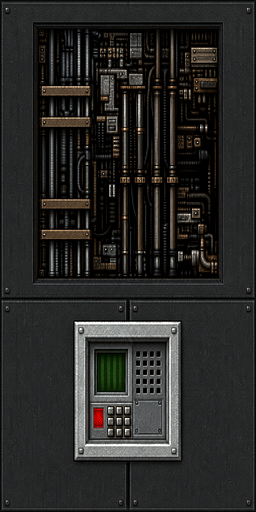
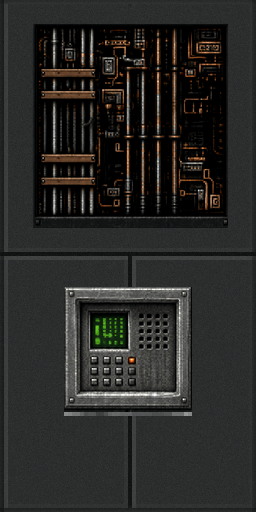
gfx: SW1COMP/SW2COMP composition re-roll - plate pinned to native rows
Wave-12 redraw drew the switch plate ~10 texels low and narrow, with the
red indicator inflated into a bar. Re-rolled with percent pins measured
from the native lump: plate x 16-47 / y 72-102, green screen 23-31 x
80-87, orange button at 32-33 x 90. Pair diff enforced to the screen
zone only (0.00% outside). Pipeline v43 drops stale packs.

diff --git a/Assets/Scripts/Graphics/EnhancedPipelineVersion.cs b/Assets/Scripts/Graphics/EnhancedPipelineVersion.cs
@@ -122,6 +122,10 @@ namespace Doom.Graphics
         // frame-1 anchor, ROCKRED/SLADRIP anchor-pinned in-place frames,
         // the FIREBLU chaos pair); v41 packs hold Super-xBR output under
         // those names. WFALL also joins the fluid class this version.
-        public const int Value = 42;
+        // v43: SW1COMP/SW2COMP composition re-roll (2026-09-01) — the wave-12
+        // switch plate drew ~10 texels low and narrow, cropping the keypad in
+        // the 32-unit E1M2 niche (line 1854); v42 packs hold the drifted
+        // plate under those names.
+        public const int Value = 43;
     }
 }

diff --git a/Textures/WorldRedraw/prompt-sw1comp-composition-reroll.md b/Textures/WorldRedraw/prompt-sw1comp-composition-reroll.md
@@ -1,0 +1,85 @@
+# Ре-ролл композиции: пара SW1COMP / SW2COMP (GPT 5.6 SOL)
+
+Редрав волны 12 провалил «композицию один-в-один»: стальная плита
+переключателя нарисована у́же и сдвинута ВНИЗ ~10 текселей (экран уехал
+с y 62.5–68.8% на ~70–75%, индикатор с y ~70% на ~80%, низ плиты с
+клавиатурой вылез за кадр окна ниши). На E1M2 (линия 1854) ниша высотой 32
+юнита показывает тексельные строки 72..104 — там натив обрамляет плиту
+целиком, а редрав показывает только её верхушку с обрезанными кнопками.
+Ре-ролл с процентными пинами (образец — composition-reroll волны 14).
+
+## Как пользоваться (инструкция для нас, не для GPT)
+
+1. Перед приёмкой удалить старые `redraw-raw.png` обеих текстур.
+2. Отправить текст промпта ниже одной сессией.
+3. Ожидаемый выход: `redraw.png` в папке каждой текстуры.
+4. Приёмка: валидатор → сверка позиций элементов (замеры ниже) →
+   тон-матч → `enforce_switch_pair.py` → квант → установка.
+
+---
+
+## Текст промпта (отсюда до следующего разделителя — в GPT)
+
+Перерисуй ПАРУ текстур переключателя из классического DOOM (Freedoom) в
+повышенной детализации. Предыдущая попытка сдвинула панель вниз и сжала
+её — теперь каждый элемент пинится процентами холста. СНАЧАЛА измерь
+вход, ПОТОМ рисуй; перед сохранением наложи результат на вход в
+полупрозрачности и убедись, что сдвигов НЕТ.
+
+**Эталоны стиля** (ТОЛЬКО ЧИТАТЬ, не перезаписывать):
+- `C:\Development\doom\Textures\WorldRedraw\COMPUTE1\redraw.png` (техника COMP)
+- `C:\Development\doom\Textures\WorldRedraw\COMPTALL\redraw.png` (стойка кабелей)
+
+Вход каждой текстуры: `C:\Development\doom\Textures\WorldRedraw\upload\<ИМЯ>-native-x4.png`.
+Результат сохранить в: `C:\Development\doom\Textures\WorldRedraw\<ИМЯ>\redraw.png`
+ровно в размере входа (256×512). Ничего, кроме этих 2 `redraw.png`, не записывай.
+
+**SW1COMP / SW2COMP** → 256×512 каждая. Сверху тёмная стойка кабелей и
+плат (верхняя половина холста, композиция как во входе), снизу стальная
+контрольная панель. КРИТИЧНЫЕ ПИНЫ (проценты холста, мерены по входу):
+
+1. Стальная плита панели: ширина РОВНО 25%–75% холста (тексели 16–47 из
+   64), высота РОВНО 56%–80.5% (тексели 72–102 из 128). Плита
+   ЦЕНТРИРОВАНА по горизонтали. НЕ сдвигать вниз, НЕ сужать, НЕ
+   добавлять тёмную стену по бокам плиты внутри этой зоны.
+2. Зелёный экран: x 36%–50%, y 62.5%–68.8% (левая верхняя четверть
+   плиты). Светится локально, без ореола на полстены.
+3. Решётка тёмных кнопок/перфорации: правая половина плиты, x ~52%–73%,
+   y ~57%–74% — рисуй сетку тёмных клавиш как во входе.
+4. Оранжевая кнопка-индикатор: маленькая, у центра, x ~50%–53%,
+   y ~70.3%–71.9%. ОДНА, не увеличивать в красный брус.
+5. Малая клавиатура: под экраном, в нижней трети плиты (y ~72%–80%),
+   как во входе.
+6. Ниже плиты (y 80.5%–100%) — тёмный металл фона, как во входе, БЕЗ
+   продолжения панели.
+
+**ГЛАВНОЕ ПРАВИЛО ПАРЫ.** СНАЧАЛА сравни входы SW1COMP и SW2COMP: у них
+меняется ТОЛЬКО содержимое зелёного экрана (зона x 36%–50%,
+y 61.7%–68.8%). Рисуй SW1COMP полностью, сохрани, скопируй и измени
+ТОЛЬКО экран для SW2COMP — диф вне зоны экрана обязан быть нулевым.
+Оранжевая кнопка НЕ меняется между состояниями.
+
+Правила: бесшовный тайлинг по горизонтали И вертикали у обоих членов
+пары; композиция один-в-один с входом — каждый входной тексель — квадрат
+4×4, внутри новая честная деталь (зерно металла, свечение пикселей
+экрана, потёртые клавиши); без запечённого света; стиль — мрачный
+ретро-индастриал, гамма оригинала, НЕ фотореализм, никаких надписей
+кроме нечитаемых пиктограмм экрана как во входе.
+
+---
+
+## Приёмка после генерации (наша часть, в GPT не отправлять)
+
+```
+python Tools/validate_tile_redraw.py SW1COMP SW2COMP
+```
+
+Затем проверка пинов (замеры натива, тексели 64×128 / проценты):
+- плита x 16–47 (25–75%), y 72–102 (56.2–80.5%)
+- зелёный экран x 23–31 (36–50%), y 80–87 (62.5–68.8%)
+- оранжевая кнопка x 32–33, y 90–91
+- диф пары: только зона экрана x 23–31, y 79–87 (81 тексель в нативе)
+
+Дальше: тон-матч (`tone_match_redraw.py`), `enforce_switch_pair.py`
+(SW2 вне зоны экрана = пиксели SW1), квант, установка. Гейт в игре —
+сейв слота 0 (E1M2, ниша line 1854, окно текселей 72..104).
